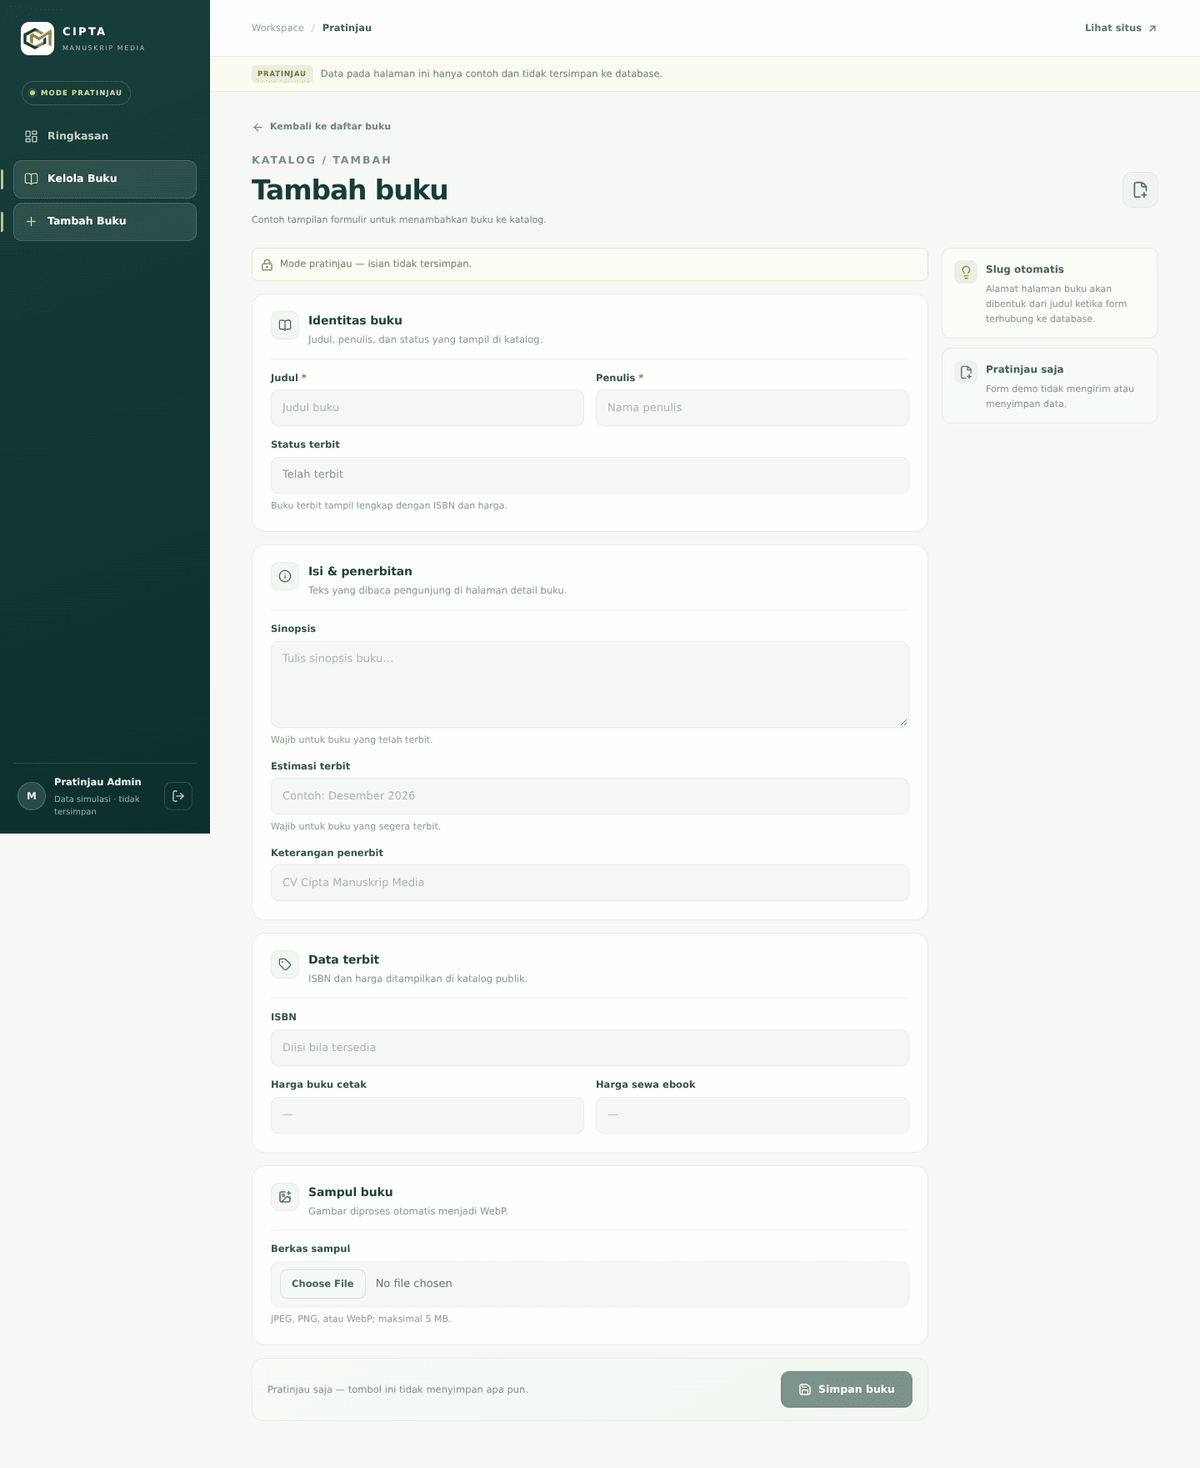
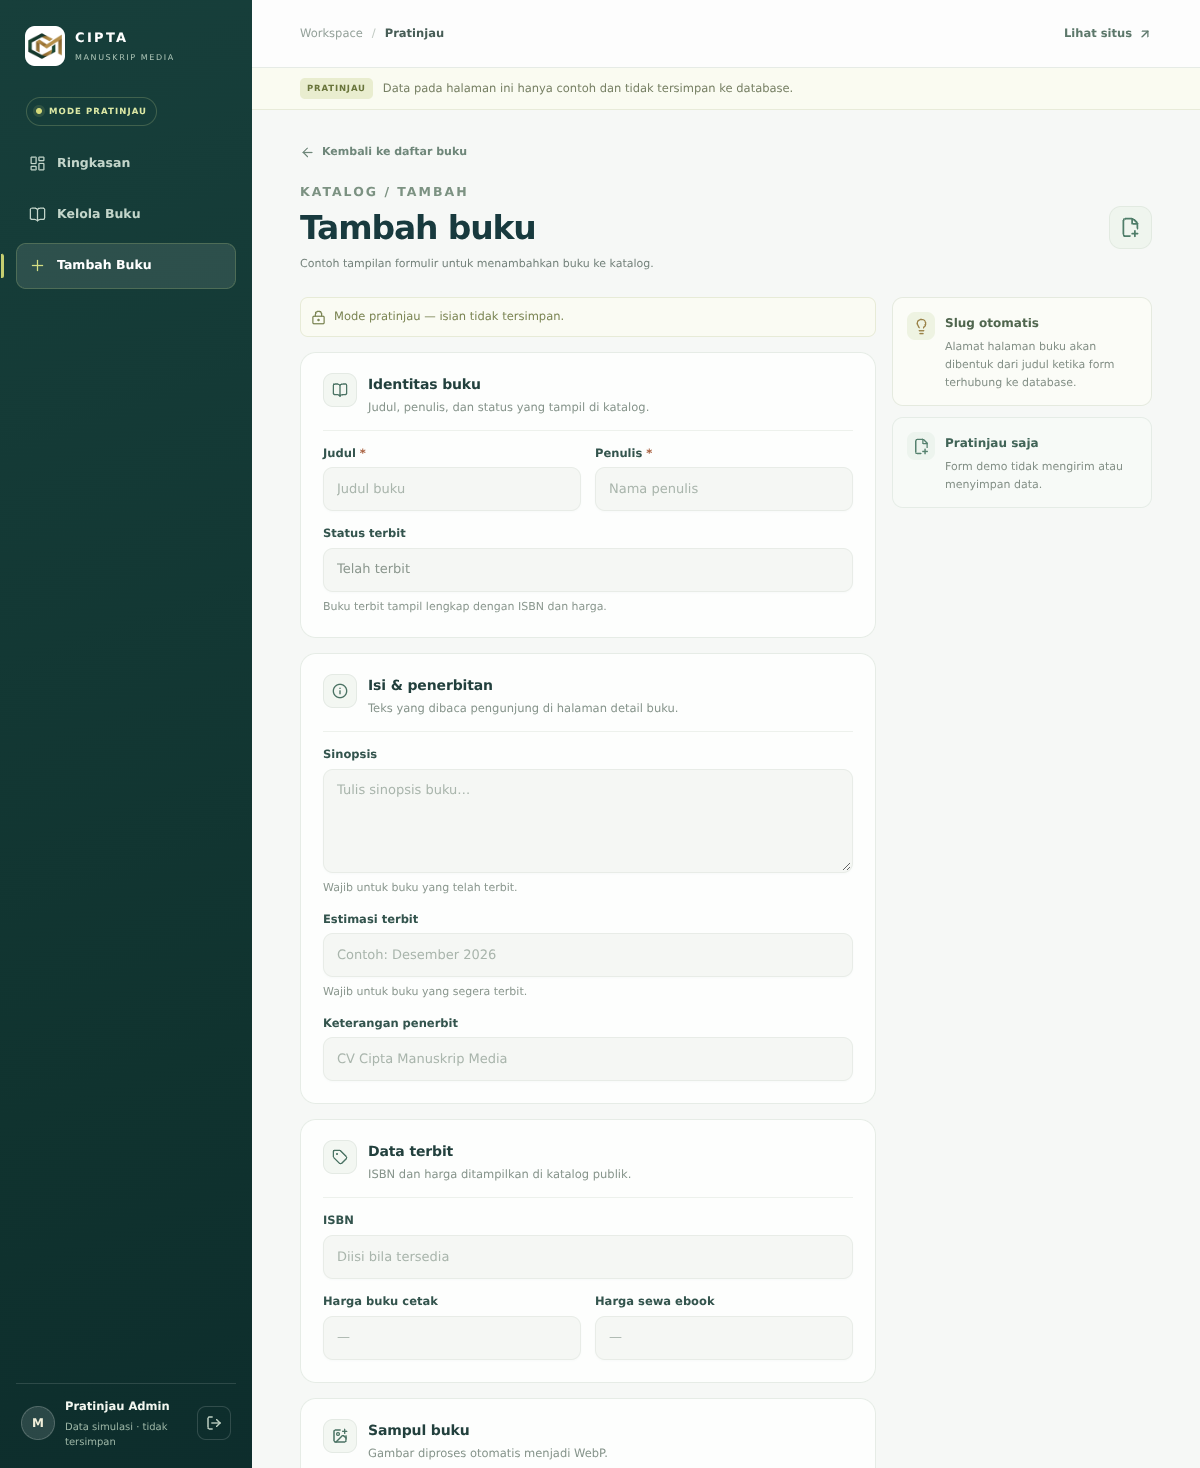
Panel admin: hanya satu menu yang menyala
Di /admin/buku/tambah, "Kelola Buku" dan "Tambah Buku" sama-sama aktif.
Penyebabnya aturan lama:

  pathname === href || (label === "Kelola Buku" && pathname.startsWith(href + "/"))

Jalur /admin/buku/tambah cocok dengan awalan /admin/buku/, sekaligus
cocok persis dengan /admin/buku/tambah. Dua-duanya lolos, dua-duanya
menyala.

Sekarang pencocokan dilakukan sekali untuk seluruh daftar menu, lalu
alamat terpanjang yang menang. Logikanya dipisah ke
components/admin-nav-state.ts supaya bisa diuji tanpa merender React,
dan AdminNav tinggal memakai hasilnya (`href === aktif`). Aturan yang
sama berlaku untuk jalur pratinjau /admin/preview/*.

Hasil:
  /admin                        -> Ringkasan
  /admin/buku                   -> Kelola Buku
  /admin/buku/12/edit           -> Kelola Buku
  /admin/buku/tambah            -> Tambah Buku
  /admin/preview/buku/tambah    -> Tambah Buku
  /admin/preview/buku/demo-01/edit -> Kelola Buku

aria-current="page" ikut hanya terpasang di satu tautan. Awalan yang
bukan batas segmen (/admin/buku-lain) tidak lagi dianggap turunan
/admin/buku.

Diperiksa di pratinjau produksi: keempat halaman /admin/preview hanya
menyalakan satu butir. tsc + eslint bersih, 12 berkas tes / 62 tes
hijau (6 di antaranya tes baru untuk aturan ini). Tangkapan layar
docs/ui-remaster/08-admin-form.png diperbarui.

diff --git a/app/components/admin-nav-state.test.ts b/app/components/admin-nav-state.test.ts
@@ -1,0 +1,47 @@
+import { describe, expect, it } from "vitest";
+import { tautanAktif } from "./admin-nav-state";
+
+/**
+ * Regresi yang dilaporkan pemilik proyek: di `/admin/buku/tambah`, menu
+ * "Kelola Buku" dan "Tambah Buku" sama-sama menyala. Penyebabnya pencocokan
+ * awalan `/admin/buku/` yang tidak pernah kalah oleh alamat yang lebih
+ * spesifik. Tes ini mengunci aturan "satu halaman, satu tautan aktif".
+ */
+
+const REAL = ["/admin", "/admin/buku", "/admin/buku/tambah"] as const;
+const DEMO = ["/admin/preview", "/admin/preview/buku", "/admin/preview/buku/tambah"] as const;
+
+describe("tautanAktif — panel admin", () => {
+  it("menyalakan hanya Tambah Buku di /admin/buku/tambah", () => {
+    expect(tautanAktif("/admin/buku/tambah", REAL)).toBe("/admin/buku/tambah");
+  });
+
+  it("menyalakan hanya Kelola Buku di daftar dan halaman edit", () => {
+    expect(tautanAktif("/admin/buku", REAL)).toBe("/admin/buku");
+    expect(tautanAktif("/admin/buku/12/edit", REAL)).toBe("/admin/buku");
+  });
+
+  it("menyalakan hanya Ringkasan di /admin", () => {
+    expect(tautanAktif("/admin", REAL)).toBe("/admin");
+  });
+
+  it("berlaku sama untuk jalur pratinjau (demo)", () => {
+    expect(tautanAktif("/admin/preview", DEMO)).toBe("/admin/preview");
+    expect(tautanAktif("/admin/preview/buku", DEMO)).toBe("/admin/preview/buku");
+    expect(tautanAktif("/admin/preview/buku/tambah", DEMO)).toBe(
+      "/admin/preview/buku/tambah"
+    );
+    expect(tautanAktif("/admin/preview/buku/7/edit", DEMO)).toBe("/admin/preview/buku");
+  });
+
+  it("tidak mencocokkan awalan yang bukan batas segmen", () => {
+    // `/admin/buku-lain` bukan turunan `/admin/buku`, jadi hanya induknya
+    // (`/admin`) yang menyala — bukan "Kelola Buku".
+    expect(tautanAktif("/admin/buku-lain", REAL)).toBe("/admin");
+  });
+
+  it("tidak menyalakan apa pun di halaman di luar panel", () => {
+    expect(tautanAktif("/", REAL)).toBeUndefined();
+    expect(tautanAktif("", REAL)).toBeUndefined();
+  });
+});

diff --git a/app/components/AdminNav.tsx b/app/components/AdminNav.tsx
@@ -3,6 +3,7 @@
 import Link from "next/link";
 import { usePathname } from "next/navigation";
 import { BookOpen, LayoutDashboard, Plus } from "lucide-react";
+import { tautanAktif } from "./admin-nav-state";
 
 const NAV_REAL = [
   { label: "Ringkasan", href: "/admin", icon: LayoutDashboard },
@@ -18,11 +19,13 @@ const NAV_DEMO = [
 export function AdminNav({ demo = false }: { demo?: boolean }) {
   const pathname = usePathname() ?? "";
   const items = demo ? NAV_DEMO : NAV_REAL;
+  // Satu halaman = satu tautan menyala; alamat paling spesifik yang menang.
+  const aktif = tautanAktif(pathname, items.map(({ href }) => href));
 
   return (
     <nav className="admin-nav" aria-label="Navigasi panel admin">
       {items.map(({ label, href, icon: Icon }) => {
-        const active = pathname === href || (label === "Kelola Buku" && pathname.startsWith(`${href}/`));
+        const active = href === aktif;
         return (
           <Link key={href} href={href} className={`admin-nav-link${active ? " is-active" : ""}`} aria-current={active ? "page" : undefined}>
             <Icon size={17} strokeWidth={1.8} aria-hidden="true" />

diff --git a/app/components/admin-nav-state.ts b/app/components/admin-nav-state.ts
@@ -1,0 +1,28 @@
+/**
+ * Penentuan tautan navigasi admin yang sedang aktif.
+ *
+ * Dipisah dari komponennya supaya bisa diuji tanpa merender React: masalah
+ * aslinya murni logika pencocokan alamat, bukan tampilan.
+ *
+ * Aturan: satu halaman hanya boleh punya **satu** tautan aktif, dan yang
+ * menang adalah alamat yang paling spesifik. Contoh nyata yang pernah salah:
+ * `/admin/buku/tambah` cocok dengan `/admin/buku` (awalan) sekaligus dengan
+ * `/admin/buku/tambah` (persis), sehingga "Kelola Buku" dan "Tambah Buku"
+ * sama-sama menyala. Dengan aturan "paling panjang menang", hanya
+ * "Tambah Buku" yang menyala, sementara `/admin/buku/12/edit` tetap
+ * menyalakan "Kelola Buku".
+ */
+
+/** Cocok persis, atau cocok sebagai awalan pada batas segmen (`/buku/12`). */
+function cocok(pathname: string, href: string): boolean {
+  return pathname === href || pathname.startsWith(`${href}/`);
+}
+
+export function tautanAktif(
+  pathname: string,
+  hrefs: readonly string[]
+): string | undefined {
+  return hrefs
+    .filter((href) => cocok(pathname, href))
+    .sort((a, b) => b.length - a.length)[0];
+}

diff --git a/docs/ui-remaster/README.md b/docs/ui-remaster/README.md
@@ -96,3 +96,18 @@ isi di dalamnya.
 Diverifikasi pada 1440, 1280, 1184, 1024, 900, 768, dan 390 piksel: tepi
 `.site-nav` dan tepi panel di bawahnya selalu sama persis (mis. 1440 →
 `160..1280`).
+
+## Navigasi panel admin
+
+Hanya satu butir menu yang boleh menyala, dan yang menang adalah alamat paling
+spesifik. Sebelumnya aturannya `pathname === href` atau awalan untuk "Kelola
+Buku", sehingga di `/admin/buku/tambah` kedua butir menyala bersamaan. Logika
+itu kini berdiri sendiri di `app/components/admin-nav-state.ts` dengan tes
+`admin-nav-state.test.ts`:
+
+- `/admin/buku/tambah` → **Tambah Buku**
+- `/admin/buku/12/edit` → **Kelola Buku**
+- `/admin` → **Ringkasan**
+
+Nomor `08-admin-form.png` di atas sudah diperbarui dengan keadaan setelah
+perbaikan.
